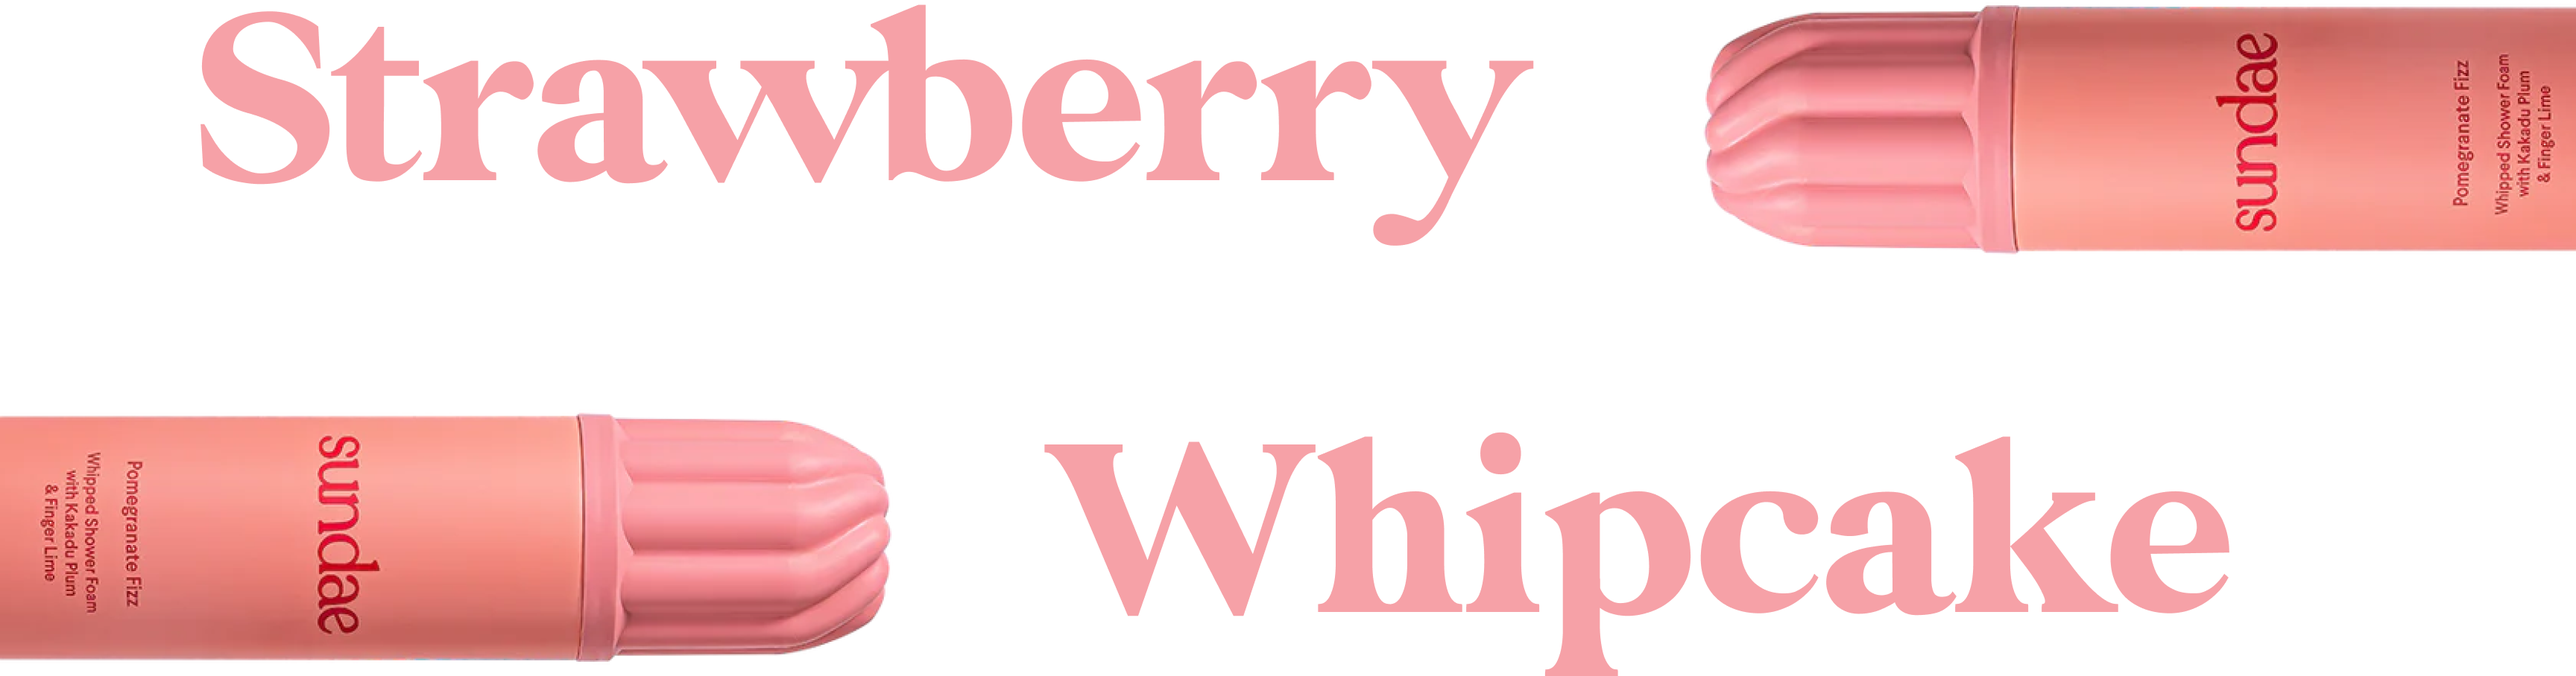
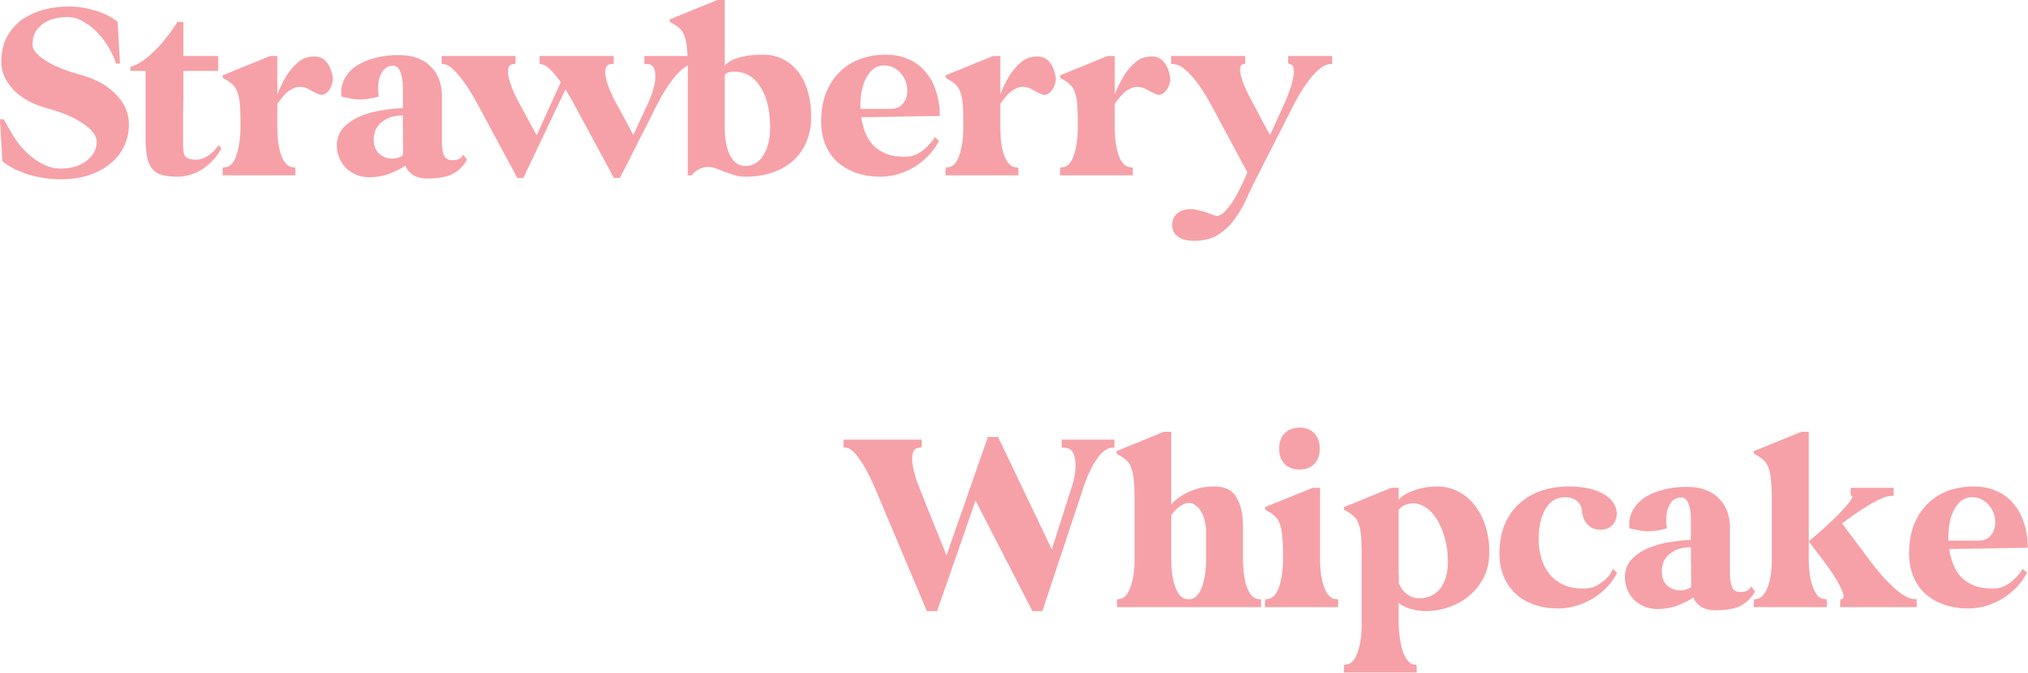
Completed Product Page Images Changes;

diff --git a/app/(products-page)/products-data.tsx b/app/(products-page)/products-data.tsx
@@ -4,26 +4,18 @@ import StrawberryBanner from "./assets/banners/strawberry-whipcake.png";
 import VannillaMeltBanner from "./assets/banners/vannilla-melt.png";
 
 // Strawberry Whipcake Images
-import StrawberryFeaturedImage from "./assets/product-images/strawberry-whipcake/main.png";
-import StrawberryGallery1 from "./assets/product-images/strawberry-whipcake/gallery-1.png";
-import StrawberryGallery2 from "./assets/product-images/strawberry-whipcake/gallery-2.png";
-import StrawberryGallery3 from "./assets/product-images/strawberry-whipcake/gallery-3.png";
-import StrawberryGallery4 from "./assets/product-images/strawberry-whipcake/gallery-4.png";
-import StrawberryGallery5 from "./assets/product-images/strawberry-whipcake/gallery-5.png";
-import StrawberryGallery6 from "./assets/product-images/strawberry-whipcake/gallery-6.png";
-import StrawberryGalleryFooter from "./assets/product-images/strawberry-whipcake/gallery-footer.png";
+import StrawberryFeaturedImage from "./assets/product-images/strawberry-whipcake/main.jpg";
+import StrawberryGallery1 from "./assets/product-images/strawberry-whipcake/gallery-1.jpg";
+import StrawberryGallery2 from "./assets/product-images/strawberry-whipcake/gallery-2.jpg";
+import StrawberryGallery3 from "./assets/product-images/strawberry-whipcake/gallery-3.jpg";
 import Strawberryicon1 from "./assets/product-images/strawberry-whipcake/icons/cup-cake.png";
 import Strawberryicon2 from "./assets/product-images/strawberry-whipcake/icons/tag-icon.png";
 
 // Vanilla Melt Images
-import VanillaFeaturedImage from "./assets/product-images/vanilla-melt/main.png";
-import VanillaGallery1 from "./assets/product-images/vanilla-melt/gallery-1.png";
-import VanillaGallery2 from "./assets/product-images/vanilla-melt/gallery-2.png";
-import VanillaGallery3 from "./assets/product-images/vanilla-melt/gallery-3.png";
-import VanillaGallery4 from "./assets/product-images/vanilla-melt/gallery-4.png";
-import VanillaGallery5 from "./assets/product-images/vanilla-melt/gallery-5.png";
-import VanillaGallery6 from "./assets/product-images/vanilla-melt/gallery-6.png";
-import VanillaGalleryFooter from "./assets/product-images/vanilla-melt/gallery-footer.png";
+import VanillaFeaturedImage from "./assets/product-images/vanilla-melt/main.jpg";
+import VanillaGallery1 from "./assets/product-images/vanilla-melt/gallery-1.jpg";
+import VanillaGallery2 from "./assets/product-images/vanilla-melt/gallery-2.jpg";
+import VanillaGallery3 from "./assets/product-images/vanilla-melt/gallery-3.jpg";
 import VanillaIcon1 from "./assets/product-images/vanilla-melt/icons/cone.png";
 import VanillaIcon2 from "./assets/product-images/vanilla-melt/icons/tag-icon.png";
 
@@ -121,7 +113,7 @@ export interface ProductsDataInterface {
     images: {
         featuredImage: string | StaticImageData,
         gallery: (string | StaticImageData)[],
-        footerImage: string | StaticImageData,
+        footerImage?: string | StaticImageData,
     }
 }
 
@@ -260,14 +252,10 @@ export const productsList: ProductsDataInterface[] = [
         },
         images: {
             featuredImage: StrawberryFeaturedImage,
-            footerImage: StrawberryGalleryFooter,
             gallery: [
                 StrawberryGallery1,
                 StrawberryGallery2,
                 StrawberryGallery3,
-                StrawberryGallery4,
-                StrawberryGallery5,
-                StrawberryGallery6,
             ]
         }
     },
@@ -407,14 +395,10 @@ export const productsList: ProductsDataInterface[] = [
         },
         images: {
             featuredImage: VanillaFeaturedImage,
-            footerImage: VanillaGalleryFooter,
             gallery: [
                 VanillaGallery1,
                 VanillaGallery2,
                 VanillaGallery3,
-                VanillaGallery4,
-                VanillaGallery5,
-                VanillaGallery6,
             ],
         }
     },

diff --git a/app/(products-page)/products/[slug]/(components)/images-section.tsx b/app/(products-page)/products/[slug]/(components)/images-section.tsx
@@ -17,7 +17,6 @@ const ProductsImagesSection = ({
     const [currentImageIndex] = useState<number>(0);
     const imagesList = [
         product.images.featuredImage,
-        product.images.footerImage,
         ...product.images.gallery,
     ]
 
@@ -68,17 +67,19 @@ const ProductsImagesSection = ({
                     ))}
                 </div>
 
-                <div
-                    className='aspect-square w-full rounded-xl overflow-hidden'
-                >
-                    <Image
-                        alt='Gallery Image footer'
-                        src={product.images.footerImage}
-                        width={200}
-                        height={200}
-                        className='w-full h-full object-cover'
-                    />
-                </div>
+                {product.images.footerImage && (
+                    <div
+                        className='aspect-square w-full rounded-xl overflow-hidden'
+                    >
+                        <Image
+                            alt='Gallery Image footer'
+                            src={product.images.footerImage}
+                            width={200}
+                            height={200}
+                            className='w-full h-full object-cover'
+                        />
+                    </div>
+                )}
 
             </div>
 

diff --git a/app/(products-page)/products/[slug]/page.tsx b/app/(products-page)/products/[slug]/page.tsx
@@ -7,7 +7,7 @@ import ProductsImagesSection from "./(components)/images-section";
 import { getStoreCurrency } from "@/functions/eCommerce-store";
 import SingleProductAddToCartForm from "./(components)/add-to-cart-form";
 import ProductContentsTabs from "./(components)/product-content-tabs";
-import SaveUptoImage from "./assets/save-upto-image.png";
+import SaveUptoImage from "./assets/save-upto-image-new.jpg";
 import KeyIngredientsSection from "./(components)/key-ingredients";
 import YouMightAlsoLikeSection from "./(components)/you-might-also-like";
 import Footer from "@/layouts/footer";
@@ -50,12 +50,17 @@ const SingleProductsPage = async ({ params }: Props) => {
                 <Image
                     alt="Product Banner Image"
                     src={product.bannerImage}
+                    className="max-w-2xl mx-auto"
                 />
             </div>
 
-            <ProductPageTicker
-                color={product.colorSchema}
-            />
+            <div
+                className="hidden md:block"
+            >
+                <ProductPageTicker
+                    color={product.colorSchema}
+                />
+            </div>
 
             <DefaultSection
                 outerClassName="min-h-100 md:py-10 px-0! md:px-5!"

diff --git a/app/(products-page)/products/[slug]/(components)/you-might-also-like/index.tsx b/app/(products-page)/products/[slug]/(components)/you-might-also-like/index.tsx
@@ -63,7 +63,7 @@ const YouMightAlsoLikeSection = ({ productId }: {
         </div>
       </div>
       <div
-        className="w-full md:w-[66%]"
+        className="w-full md:w-[66%] md:hidden"
       >
         <div
           className="w-full hidden md:block"
